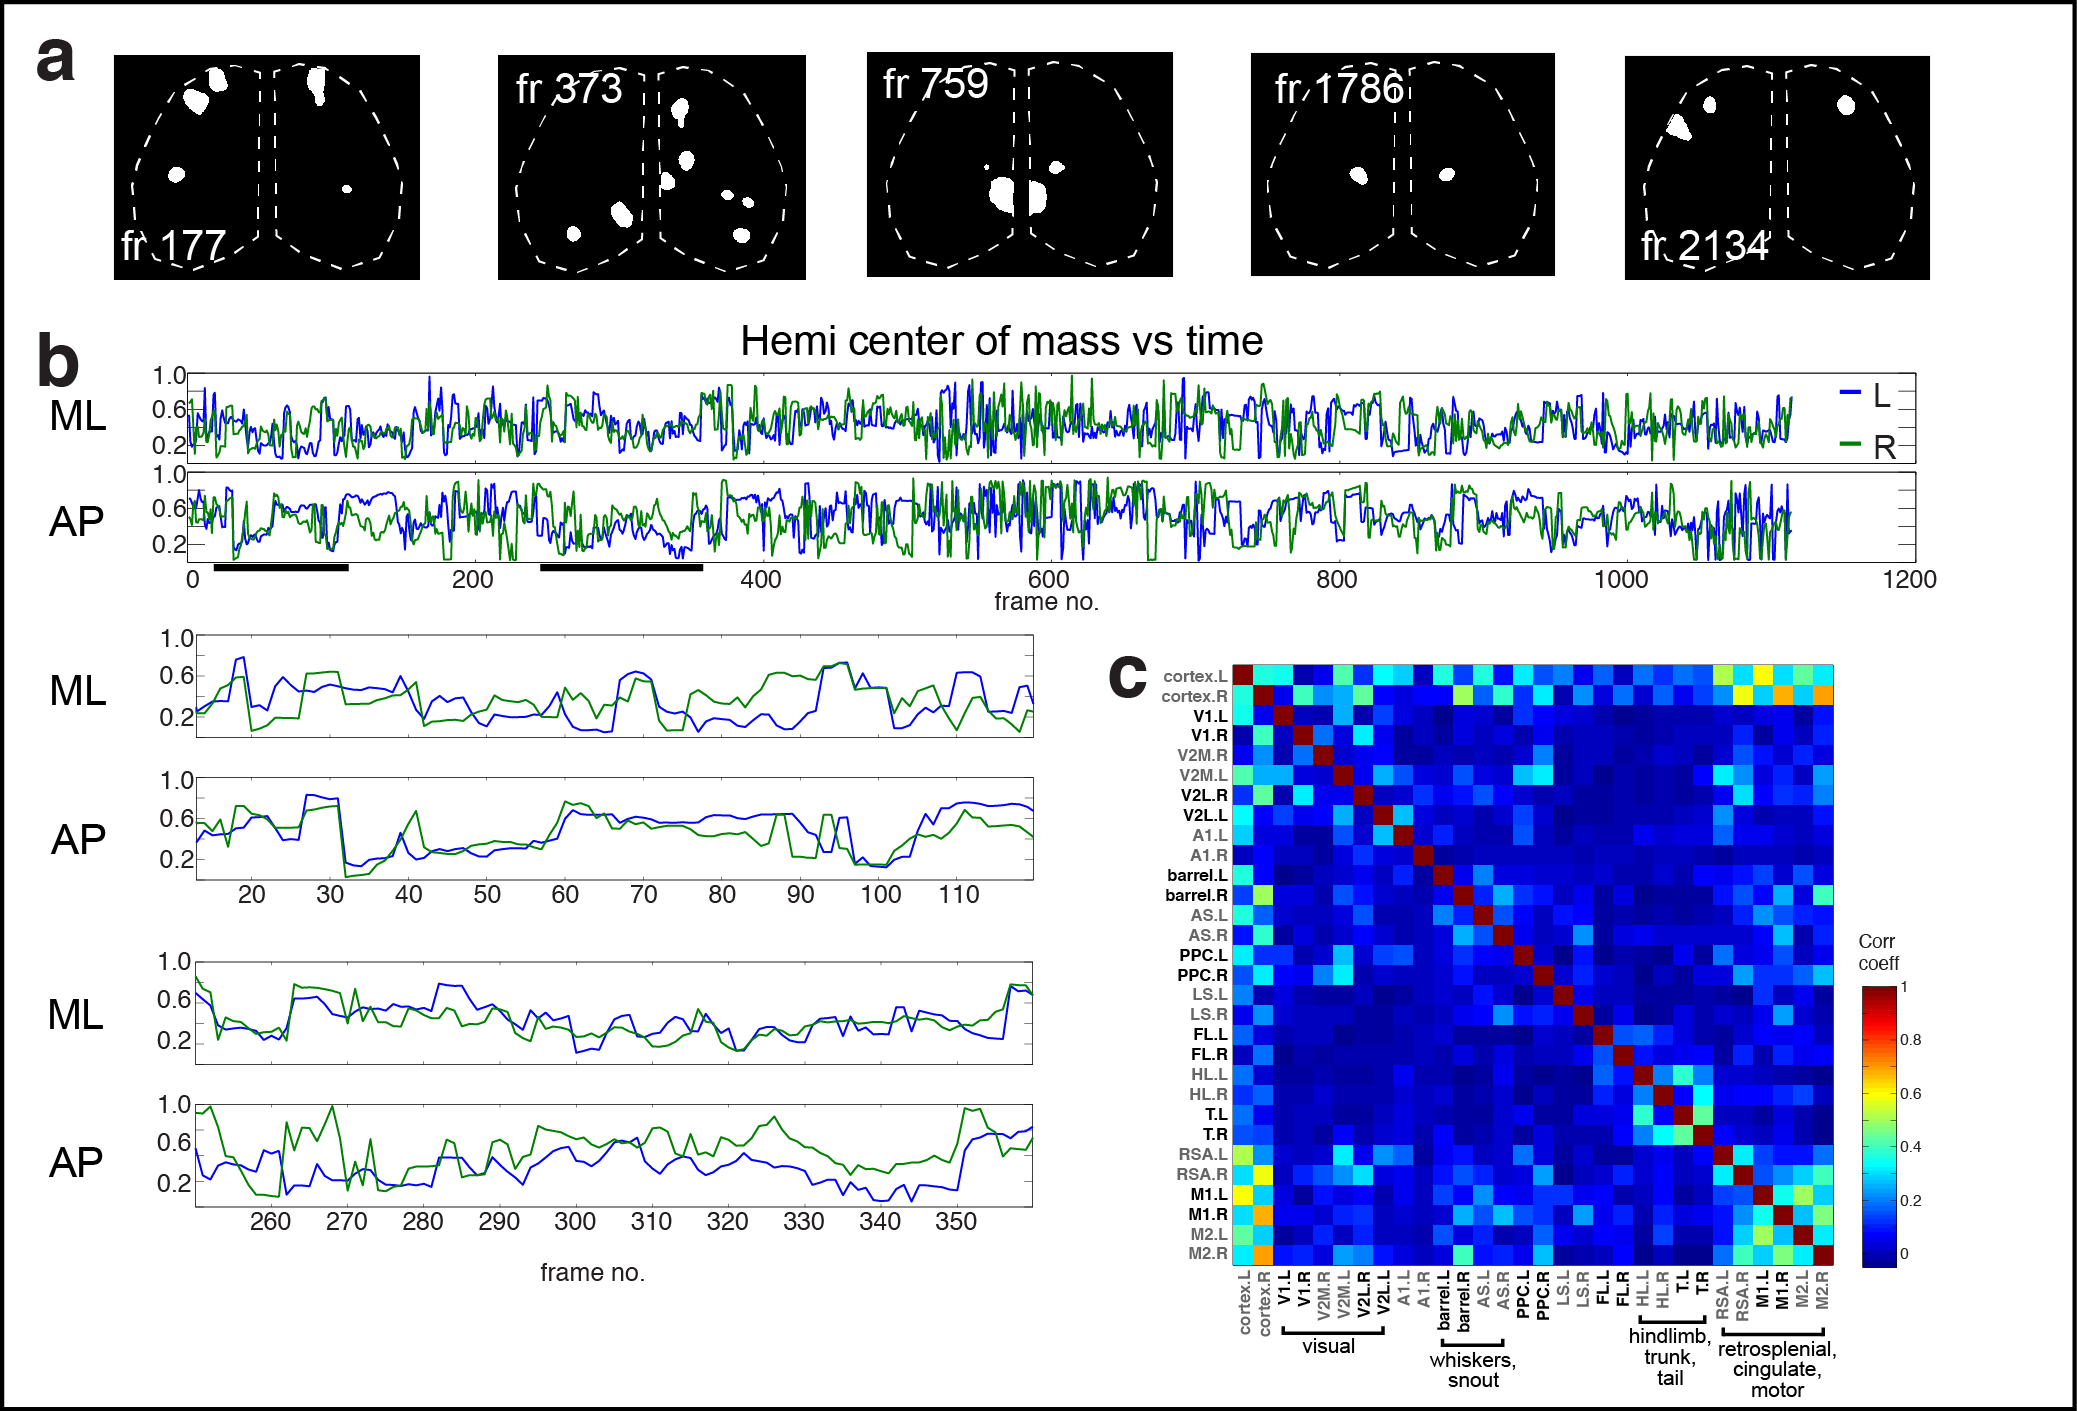
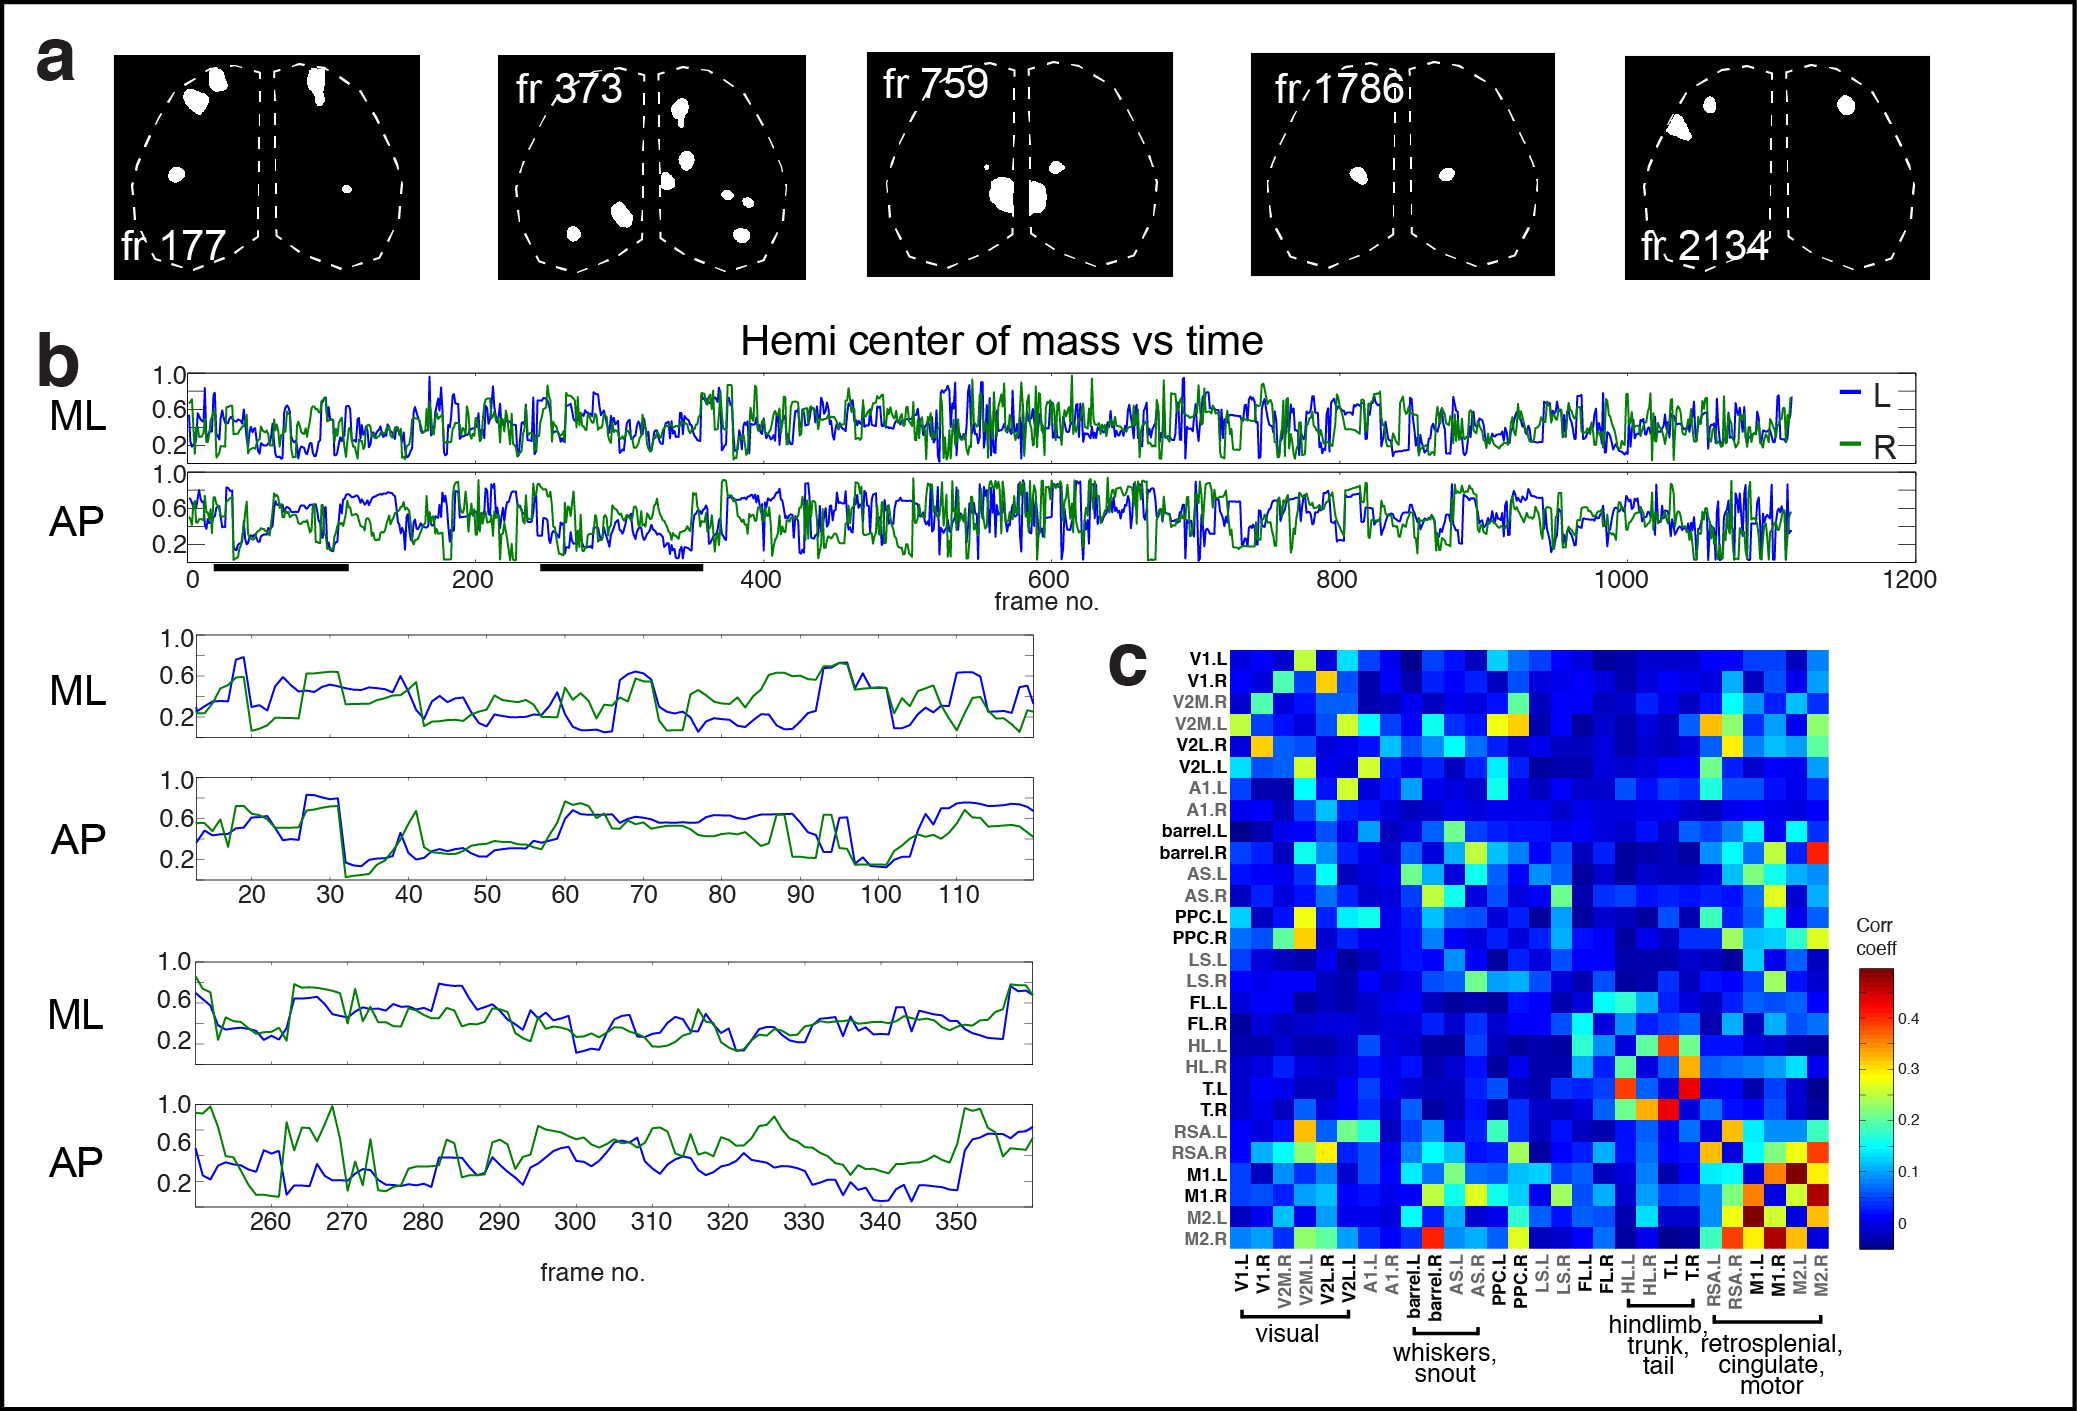
Replaced map and corr matrix with new plots for fig1 and 2
Also updated fig1 legend and figure metadata.

Changed region(s): [[0.5238, 0.4366, 0.9244, 0.9979]]

diff --git a/wholeBrain_main.md b/wholeBrain_main.md
@@ -41,7 +41,7 @@ Neocortical organization consists of cortical modules tiled across the cortical 
 * Calcium imaging-- Konnerth 'waves' in Ent cortex [#Adelsberger:2005]. For visual cortex, domains activity in extrastriate cortex (Ackman Nature 2012). But S1-- [#Golshani:2009] work in later postnatal-- but activity not obeying domains in barrel cortex-- problem with spatial sampling in the xy and the z for this study?
 
 
-![**Figure 1.** Calcium domains throughout neonatal mouse isocortex. **a** Experimental schematic. **b** Single image frame showing calcium domains in both hemispheres at P3 and automatically detected domain masks. **c** Domain overlay map for a single 10 min recording. 3D binary masks were flattened for each domain and colored by time and transparently overlaid. Notice the non-uniform distribution of boundaries and color intensities across each hemisphere, as well as local maxima and minima that indicate matched areal boundaries bilaterally. **d** Histograms showing the distribution of spatial diameters and durations for calcium domains.](figure1.png)
+![**Figure 1.** Calcium domains throughout neonatal mouse isocortex. **a** Experimental schematic. **b** Single image frame showing calcium domains in both hemispheres at P3 and automatically detected domain masks. **c** Functional activity map at P3. Based on pixel activation frequency from detected domains in a single 10 min recording. Map is overlaid on cortical areal parcellations. Notice localized maxima and minima of functional activity between areas that approximate known anatomical cortical area boundaries and the mirroring of map structure bilaterally. **d** Histograms showing the distribution of spatial diameters and durations for calcium domains.](figure1.png)
 
 metric | mean  | min  | max    | unit                  
 ------------- | ----- | ---- | ------ | --------------------  
@@ -113,7 +113,7 @@ lenActvFraction>0 | fracCorr | timeCorr_s | fracCorrPos | timeCorrPos_s | fracCo
 # Conclusions
 
 * **Ongoing activity in developing cortex is not random**-- specifically coordinated in space and time within and among cortical areas between the hemispheres
-* BRAIN initiative
+* ~~BRAIN initiative (for cover letter to the editor)~~
 	- this work aids at least a couple of the 9 preliminary aims of the Brain project
 * template for assessing altered functional dynamics in models for neurological disorders
 
@@ -128,55 +128,60 @@ lenActvFraction>0 | fracCorr | timeCorr_s | fracCorrPos | timeCorrPos_s | fracCo
 <!---Figure 1 metadata
 * neonate_ms_fig.png
 * binary masks: Screen_Shot_2013-03-29_at_12.06.25_PM_crop.png, ..._crop1.png, ..._crop2.png
-* domain map: Screen_Shot_2013-05-14_at_4.11.51_PM_crop.png
+* domain map: 120518_07_connComponents_BkgndSubtr-60px_noWatershed-20130327-151022_d2rdomainPatchesPlot20130912-111733.eps
+	* update 2013-10-03 11:07:29: 
+		* 120518_07_2013-09-11-225029_d2rImageCoords20130930-144657.ai
+			* created using area coords: 120518_07_2013-09-11-225029_d2rImageCoords20130930-144657.eps
+			* 120518_07_parcellation_fig.tif: alpha overlay of brightfield image with Allen gray parcellation image and Sert-tdtomato images linearly scaled to fit V1 & S1-barrel reprsentations in functional image and domain centroid map 
+				* contourplot of 20 levels 120518_07_connComponents_BkgndSubtr-60px_noWatershed-20130327-151022_d2r_20130930-124942.eps
+				* 120518_07_connComponents_BkgndSubtr-60px_noWatershed-20130327-151022_d2r_20130930-124950_eps.png
 * hists: 120518_07_connComponents_BkgndSubtr60px-20130327-163111domains20130402-151440-crop.png
---->
 
-<!--- TODO: add a domain centroid size/duration map similar to: ![](../figures/Screen_Shot_2013-04-03_at_8.42.49_AM.png)
-![](../figures/Screen_Shot_2013-04-03_at_10.04.36_AM.png)
+* TODO: add a domain centroid size/duration map similar to: ![](../figures/Screen_Shot_2013-04-03_at_8.42.49_AM.png)
+	* ![](../figures/Screen_Shot_2013-04-03_at_10.04.36_AM.png)
 --->
 
 <!---Figure 2 metadata 
-Temporal correlation of activity between the hemispheres and preceding motor activation:  
-![](../figures/Screen_Shot_2013-04-30_at_3.02.20_PM.png)
-hemisphere active fraction traces: Screen_Shot_2013-04-08_at_8.47.19_AM.png
+* Temporal correlation of activity between the hemispheres and preceding motor activation:  
+	* ![](../figures/Screen_Shot_2013-04-30_at_3.02.20_PM.png)
+* hemisphere active fraction traces: Screen_Shot_2013-04-08_at_8.47.19_AM.png
 
 ### Cortical activity and motor activity is periodic
-hemi auto & xcorr:
-Screen_Shot_2013-04-08_at_2.31.33_PM.png | 120518_07_connComponents_BkgndSubtr-60px_noWatershed-20130327-151022activeFraction20130408-143100.eps
-Screen_Shot_2013-04-08_at_2.34.50_PM.png | 120518_07_connComponents_BkgndSubtr-60px_noWatershed-20130327-151022activeFraction20130408-151655.eps
-
-Moving average signals color coded at diff lags:
-120518_07_2013-09-11-225029_d2r_motorSignalFiltFilt.eps
-120518_07_2013-09-11-225029_d2r_motorSignalFiltFilt.png
-120518_07_2013-09-11-225029_d2r_motorSignalFiltFilt_fig.eps
+* hemi auto & xcorr:
+	* Screen_Shot_2013-04-08_at_2.31.33_PM.png | 120518_07_connComponents_BkgndSubtr-60px_noWatershed-20130327-151022activeFraction20130408-143100.eps
+	* Screen_Shot_2013-04-08_at_2.34.50_PM.png | 120518_07_connComponents_BkgndSubtr-60px_noWatershed-20130327-151022activeFraction20130408-151655.eps
+* Moving average signals color coded at diff lags:
+	* 120518_07_2013-09-11-225029_d2r_motorSignalFiltFilt.eps
+	* 120518_07_2013-09-11-225029_d2r_motorSignalFiltFilt.png
+	* 120518_07_2013-09-11-225029_d2r_motorSignalFiltFilt_fig.eps
 
 ### Cortical activity is correlated with the motor signal
-Rho and pvalues whole trace: ![](../figures/Screen_Shot_2013-04-25_at_5.18.36_PM.png)
-Rho and pvalues subset trace: ![](../figures/Screen_Shot_2013-04-25_at_3.59.05_PM.png)
+* Rho and pvalues whole trace: ![](../figures/Screen_Shot_2013-04-25_at_5.18.36_PM.png)
+* Rho and pvalues subset trace: ![](../figures/Screen_Shot_2013-04-25_at_3.59.05_PM.png)
 
 ### Cross-correlation of cortical activity and motor activity
-auto, xcorr for whole:  
-120518_07_connComponents_BkgndSubtr-60px_noWatershed-20130327-151022_d2rmotorSignalXCorr20130912-092426.eps
-auto, xcorr during motor period:  
-120518_07_connComponents_BkgndSubtr-60px_noWatershed-20130327-151022_d2rmotorSignalXCorr20130912-093834.eps
-
+* auto, xcorr for whole:  
+	* 120518_07_connComponents_BkgndSubtr-60px_noWatershed-20130327-151022_d2rmotorSignalXCorr20130912-092426.eps
+* auto, xcorr during motor period:  
+	* 120518_07_connComponents_BkgndSubtr-60px_noWatershed-20130327-151022_d2rmotorSignalXCorr20130912-093834.eps
 --->
 
 
 <!---Figure 3 metadata
-binary mask snapshots, cropped from screen shots in [[2013-04-19_analysis]]
-Screen_Shot_2013-04-19_at_8.26.00_AM_fr1786.png
-Screen_Shot_2013-04-19_at_8.27.49_AM_fr2134.png
-Screen_Shot_2013-04-19_at_8.30.27_AM_fr759.png
-Screen_Shot_2013-04-19_at_8.30.51_AM_fr373.png
-Screen_Shot_2013-04-19_at_8.38.54_AM_fr177.png
-
-activefraction hemis AP & ML all: ![](../figures/Screen_Shot_2013-04-23_at_8.45.18_AM.png)  | 120518_07_connComponents_BkgndSubtr-60px_noWatershed-20130327-151022_d2ractiveFractionPixelLocaCorr20130423-094506.eps
-activefraction hemis AP & ML segment: ![](../figures/Screen_Shot_2013-04-23_at_8.46.27_AM.png)
-activefraction hemis AP & ML segment: ![](../figures/Screen_Shot_2013-04-23_at_8.51.55_AM.png)
-scatterplot ML Screen_Shot_2013-04-22_at_4.29.28_PM.png
-scatterplot AP 
-
-corr matrix: 120518_07_2013-09-11-225029_d2rcorrMatrix20130912-001431_fig.ai
+* binary mask snapshots, cropped from screen shots in [[2013-04-19_analysis]]
+	* Screen_Shot_2013-04-19_at_8.26.00_AM_fr1786.png
+	* Screen_Shot_2013-04-19_at_8.27.49_AM_fr2134.png
+	* Screen_Shot_2013-04-19_at_8.30.27_AM_fr759.png
+	* Screen_Shot_2013-04-19_at_8.30.51_AM_fr373.png
+	* Screen_Shot_2013-04-19_at_8.38.54_AM_fr177.png
+* activefraction hemis AP & ML all: ![](../figures/Screen_Shot_2013-04-23_at_8.45.18_AM.png)  | 120518_07_connComponents_BkgndSubtr-60px_noWatershed-20130327-151022_d2ractiveFractionPixelLocaCorr20130423-094506.eps
+* activefraction hemis AP & ML segment: ![](../figures/Screen_Shot_2013-04-23_at_8.46.27_AM.png)
+* activefraction hemis AP & ML segment: ![](../figures/Screen_Shot_2013-04-23_at_8.51.55_AM.png)
+* scatterplots:  
+	* ML Screen_Shot_2013-04-22_at_4.29.28_PM.png
+	* AP 
+* corr matrix: orig: 120518_07_2013-09-11-225029_d2rcorrMatrix20130912-001431_fig.ai
+	* update 2013-10-03 11:04:39:
+		* 120518_07_2013-09-11-225029_d2rcorrMatrix20130930-111018.ai
+		* 120518_07_2013-09-11-225029_d2rcorrMatrix20130930-111018.eps
 --->
